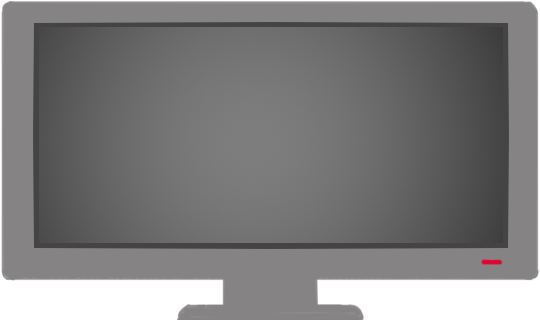
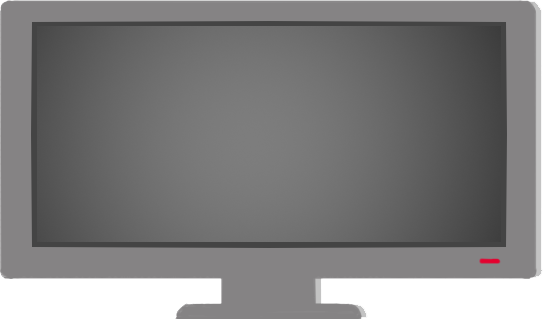
辅助贴图基本完成

diff --git a/myweb/js/main.js b/myweb/js/main.js
@@ -35,6 +35,7 @@ window.onload = function(){
         game.load.onLoadComplete.add(loadcomplete, this);
         game.load.atlas('ground','img/ground/ground.png','img/ground/ground.json', Phaser.Loader.TEXTURE_ATLAS_JSON_HASH);
         game.load.atlas('furniture','img/furniture/furniture.png','img/furniture/furniture.json', Phaser.Loader.TEXTURE_ATLAS_JSON_HASH);
+        game.load.atlas('pointing','img/pointing/pointing.png','img/pointing/pointing.json', Phaser.Loader.TEXTURE_ATLAS_JSON_HASH);
     }
     function loadStart(){
         console.info("resources loading  starts");
@@ -55,7 +56,9 @@ window.onload = function(){
         trophy1 = null,
         trophy2 = null,
         tv = null,
-        bag = null;
+        bag = null,
+        gamebox = null;
+    var hand = null;
 
     //create object
     function create(){
@@ -78,7 +81,13 @@ window.onload = function(){
         tv = game.add.sprite(game.world.centerX,-500,'furniture','tv.png');
         tv.anchor.set(0.5,1);
         game.physics.enable(tv,Phaser.Physics.ARCADE);
-        tv.body.bounce.y = 0.2;
+        tv.body.bounce.y = 0.3;
+
+        //gamebox
+        gamebox = game.add.sprite(game.world.centerX-220,wall_height-145,'furniture','gamebox.png');
+        gamebox.anchor.set(0.5,0.5);
+        gamebox.scale.set(4,4);
+        gamebox.alpha = 0.0;
 
         //bookcase
         bookcase = game.add.sprite(game.world.centerX-tvstand.width/2-160,0,'furniture','bookcase.png');
@@ -95,17 +104,20 @@ window.onload = function(){
         bookrack.body.immovable = true;
         bookrack.body.allowGravity = false;
 
+        //trophy1
         trophy1 = game.add.sprite(bookrack.x+130,0,'furniture','trophy1.png');
         trophy1.anchor.set(0.5,1);
         game.physics.enable(trophy1,Phaser.Physics.ARCADE);
         trophy1.body.bounce.y = 0.3;
         trophy1.body.allowGravity = false;
 
+        //trophy2
         trophy2 = game.add.sprite(bookrack.x+20,0,'furniture','trophy2.png');
         trophy2.anchor.set(0.5,1);
         game.physics.enable(trophy2,Phaser.Physics.ARCADE);
         trophy2.body.bounce.y = 0.3;
 
+        //bag
         bag = game.add.sprite(WORLDWIDTH-200,0,'furniture','bag.png');
         bag.anchor.set(0.5,1);
         game.physics.enable(bag,Phaser.Physics.ARCADE);
@@ -118,21 +130,42 @@ window.onload = function(){
         ground.body.immovable = true;
         ground.body.allowGravity = false;
 
+        //hand
+        hand = game.add.sprite(0,wall_height,'pointing','hand.png');
+        hand.anchor.set(0.5,0);
+
         cursors = game.input.keyboard.createCursorKeys();
     }
 
     //stage  update
     function update(){
+        if(game.device.touch){
+            hand.x = game.input.pointer1.x;
+            hand.y = game.input.pointer1.y;
+        }else{
+            hand.x = game.input.mousePointer.x;
+            hand.y = game.input.mousePointer.y;
+        }
+
         game.physics.arcade.collide(ground, [tvstand,bookcase,bag],function(obj1,obj2){
             if(obj2 == tvstand){
                 tvstand.body.immovable = true;
                 tvstand.body.allowGravity = false;
+                tvstand.body.velocity.y = 0;
+
+                game.add.tween(gamebox).to( { alpha: 1}, 1000, Phaser.Easing.Quartic.Out, true);
+                game.add.tween(gamebox.scale).to( {x:1,y:1}, 1000, Phaser.Easing.Quartic.Out, true);
             }
         });
-
         game.physics.arcade.collide(bookrack, [trophy1,trophy2]);
 
-        game.physics.arcade.collide(tvstand, tv);
+        game.physics.arcade.collide(tvstand, tv,function(obj1,obj2){
+            if(obj2.body.position.y == obj2.body.prev.y){
+                tv.body.immovable = true;
+                tv.body.allowGravity = false;
+                tv.body.velocity.y = 0;
+            }
+        });
 
         if(tvstand.y > 200 && !bookcase.body.allowGravity){
             bookcase.body.allowGravity = true;
@@ -166,6 +199,7 @@ window.onload = function(){
     function render(){
         //game.debug.cameraInfo(game.camera, 500, 32);
         // game.debug.body(tvstand);
+        // game.debug.pointer(game.input.pointer1);
     }
 };
 

diff --git a/myweb/index.html b/myweb/index.html
@@ -10,7 +10,7 @@
 </head>
 <body>
 <div id="stageContainer"></div>
-<script src="//cdn.jsdelivr.net/npm/phaser-ce@2.9.2"></script>
+<script src="//cdn.jsdelivr.net/npm/phaser-ce@2.10.3"></script>
 <script src="js/main.js"></script>
 </body>
 </html>
